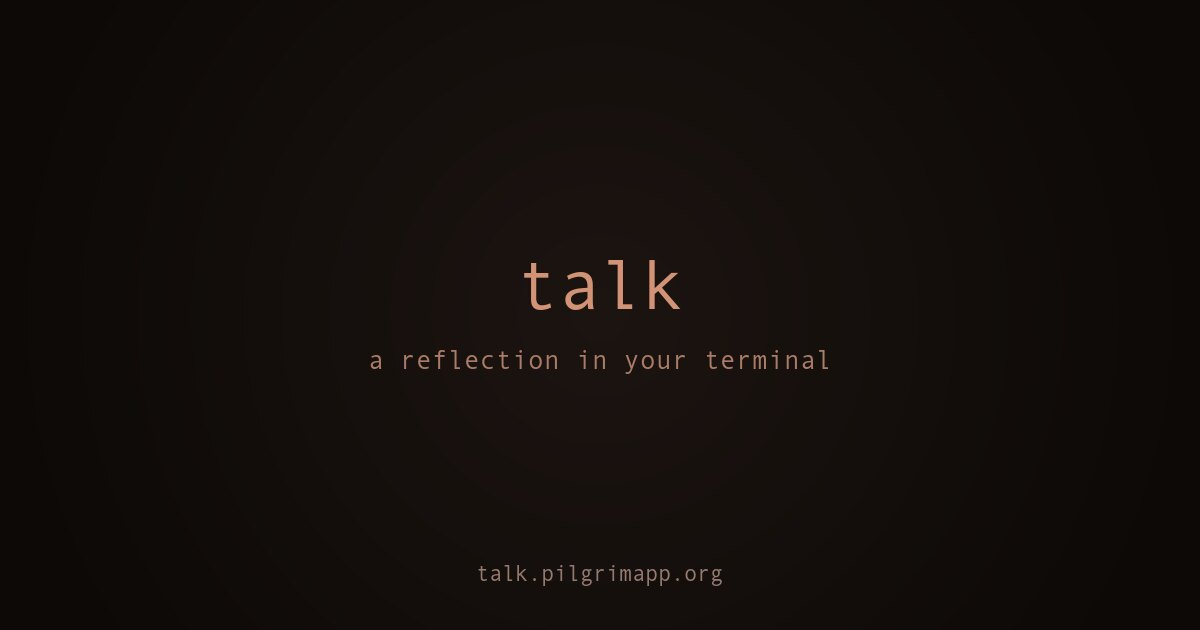
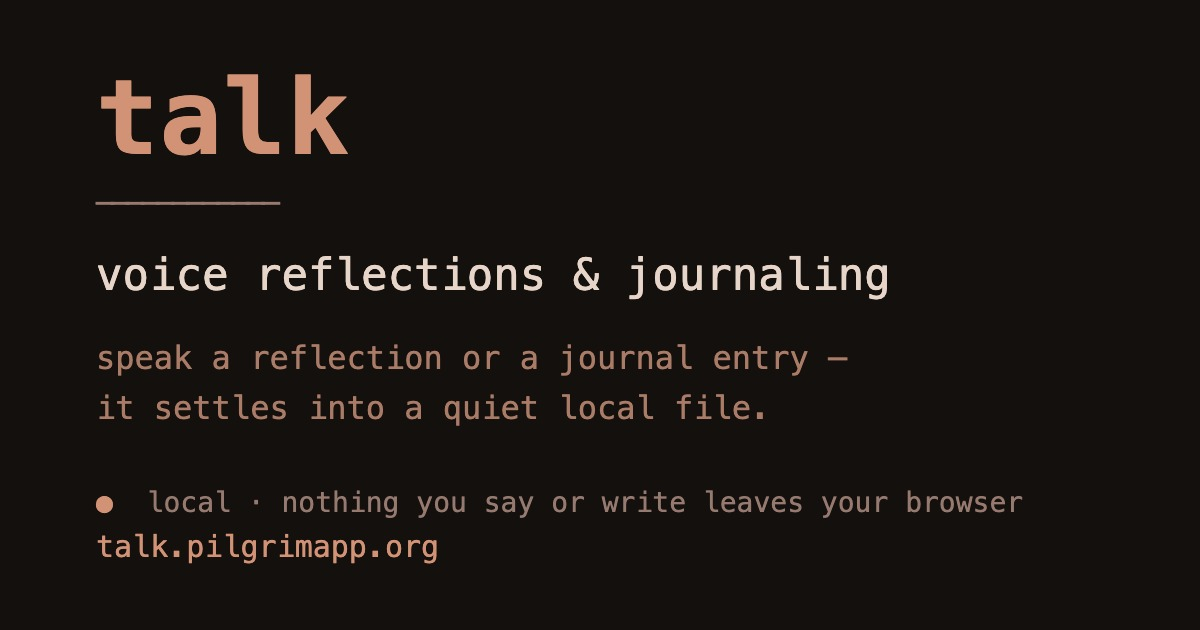
feat(web): new OG/social card covering both modes (reflect + journal)
Regenerate og.jpg (1200×630) from a reproducible card: the rust palette + mono
font from the live terminal (bg #14100e, core rgb(210,146,118)), wordmark, the
'voice reflections & journaling' tagline, the privacy line, and the URL. Source
lives in scripts/og-card.html; scripts/gen-og.mjs screenshots it via Playwright
(npm run og).

diff --git a/web/scripts/og-card.html b/web/scripts/og-card.html
@@ -1,0 +1,44 @@
+<!doctype html>
+<!--
+  The Open Graph / social share card (1200×630), rendered to web/public/og.jpg by
+  scripts/gen-og.mjs (a headless-chromium screenshot). Kept in-repo so the image is
+  reproducible. Palette + font mirror the live terminal:
+    bg #14100e · core rgb(210,146,118) · dim rgb(170,124,104) · edge rgb(150,122,112)
+    fg #e6d5c8 · monospace (SF Mono first, matching terminal.ts).
+-->
+<html>
+  <head>
+    <meta charset="utf-8" />
+    <style>
+      * { margin: 0; padding: 0; box-sizing: border-box; }
+      html, body { width: 1200px; height: 630px; }
+      body {
+        background: #14100e;
+        color: #e6d5c8;
+        font-family: "SF Mono", "JetBrains Mono", "Cascadia Code", Menlo, Consolas, monospace;
+        padding: 86px 96px;
+        display: flex;
+        flex-direction: column;
+        justify-content: center;
+      }
+      .word { font-size: 104px; font-weight: 600; color: rgb(210, 146, 118); letter-spacing: 1px; line-height: 1; }
+      .rule { color: rgb(150, 122, 112); font-size: 30px; letter-spacing: -3px; margin: 14px 0 30px; }
+      .tag { font-size: 44px; color: #e6d5c8; margin-bottom: 34px; }
+      .body { font-size: 32px; color: rgb(170, 124, 104); line-height: 1.55; }
+      .foot { margin-top: 52px; font-size: 28px; color: rgb(150, 122, 112); }
+      .dot { color: rgb(210, 146, 118); }
+      .url { color: rgb(210, 146, 118); font-size: 30px; margin-top: 10px; }
+    </style>
+  </head>
+  <body>
+    <div class="word">talk</div>
+    <div class="rule">────────────</div>
+    <div class="tag">voice reflections &amp; journaling</div>
+    <div class="body">
+      speak a reflection or a journal entry —<br />
+      it settles into a quiet local file.
+    </div>
+    <div class="foot"><span class="dot">●</span>&nbsp; local · nothing you say or write leaves your browser</div>
+    <div class="url">talk.pilgrimapp.org</div>
+  </body>
+</html>
